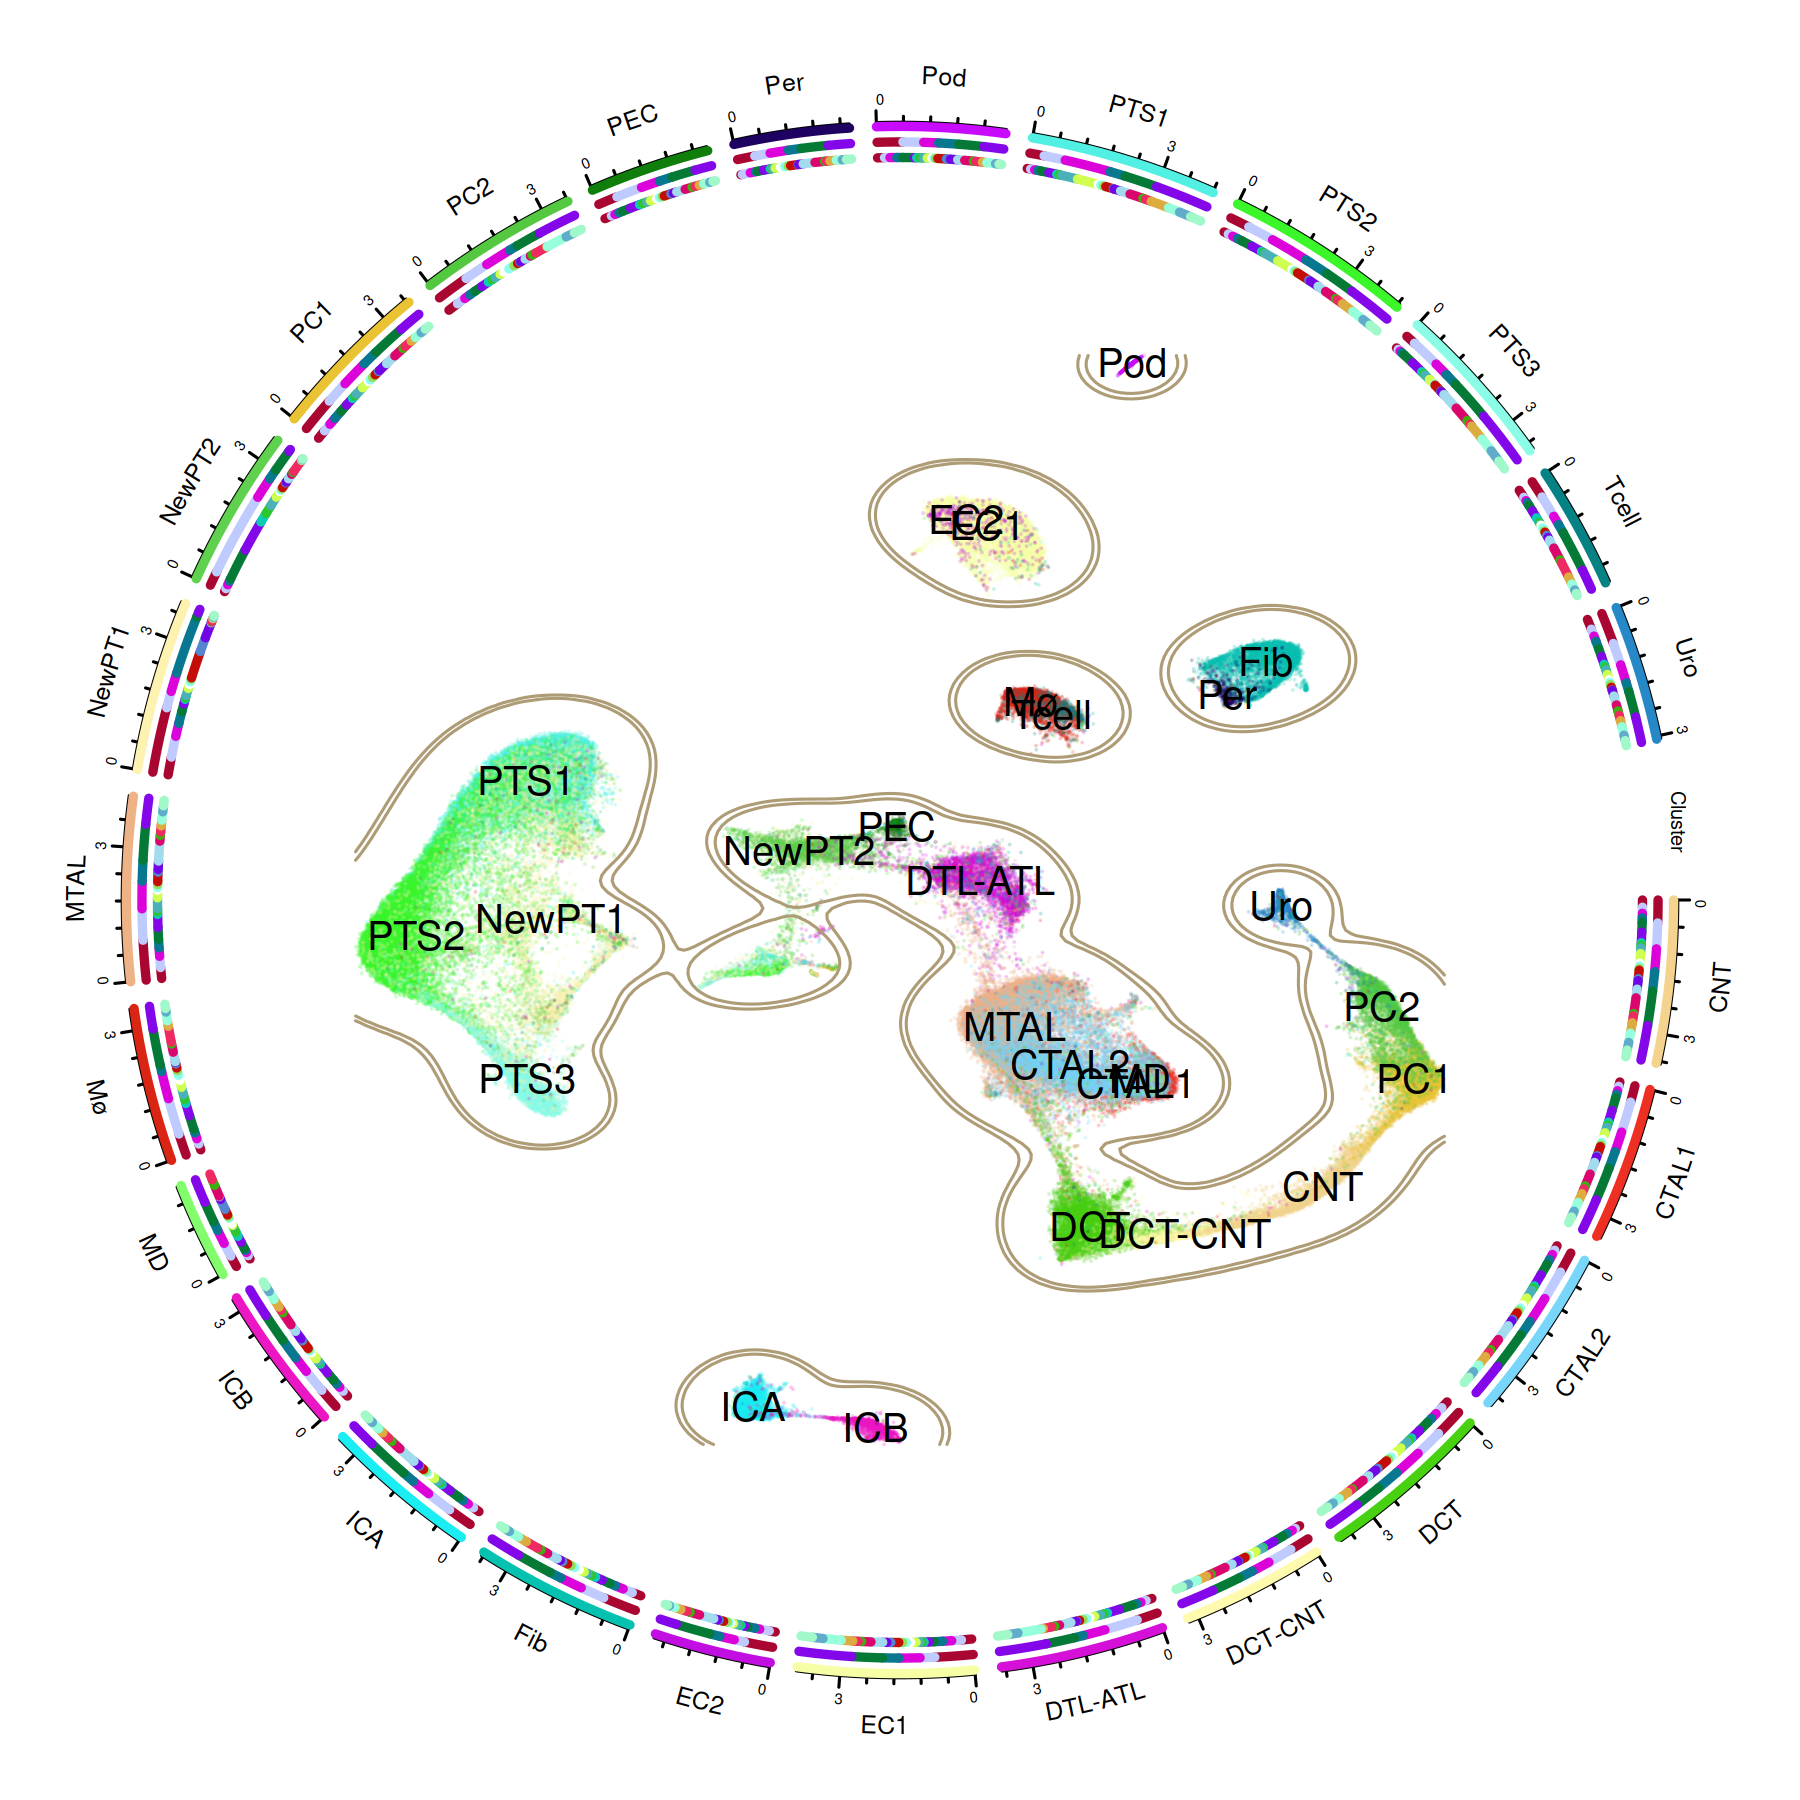
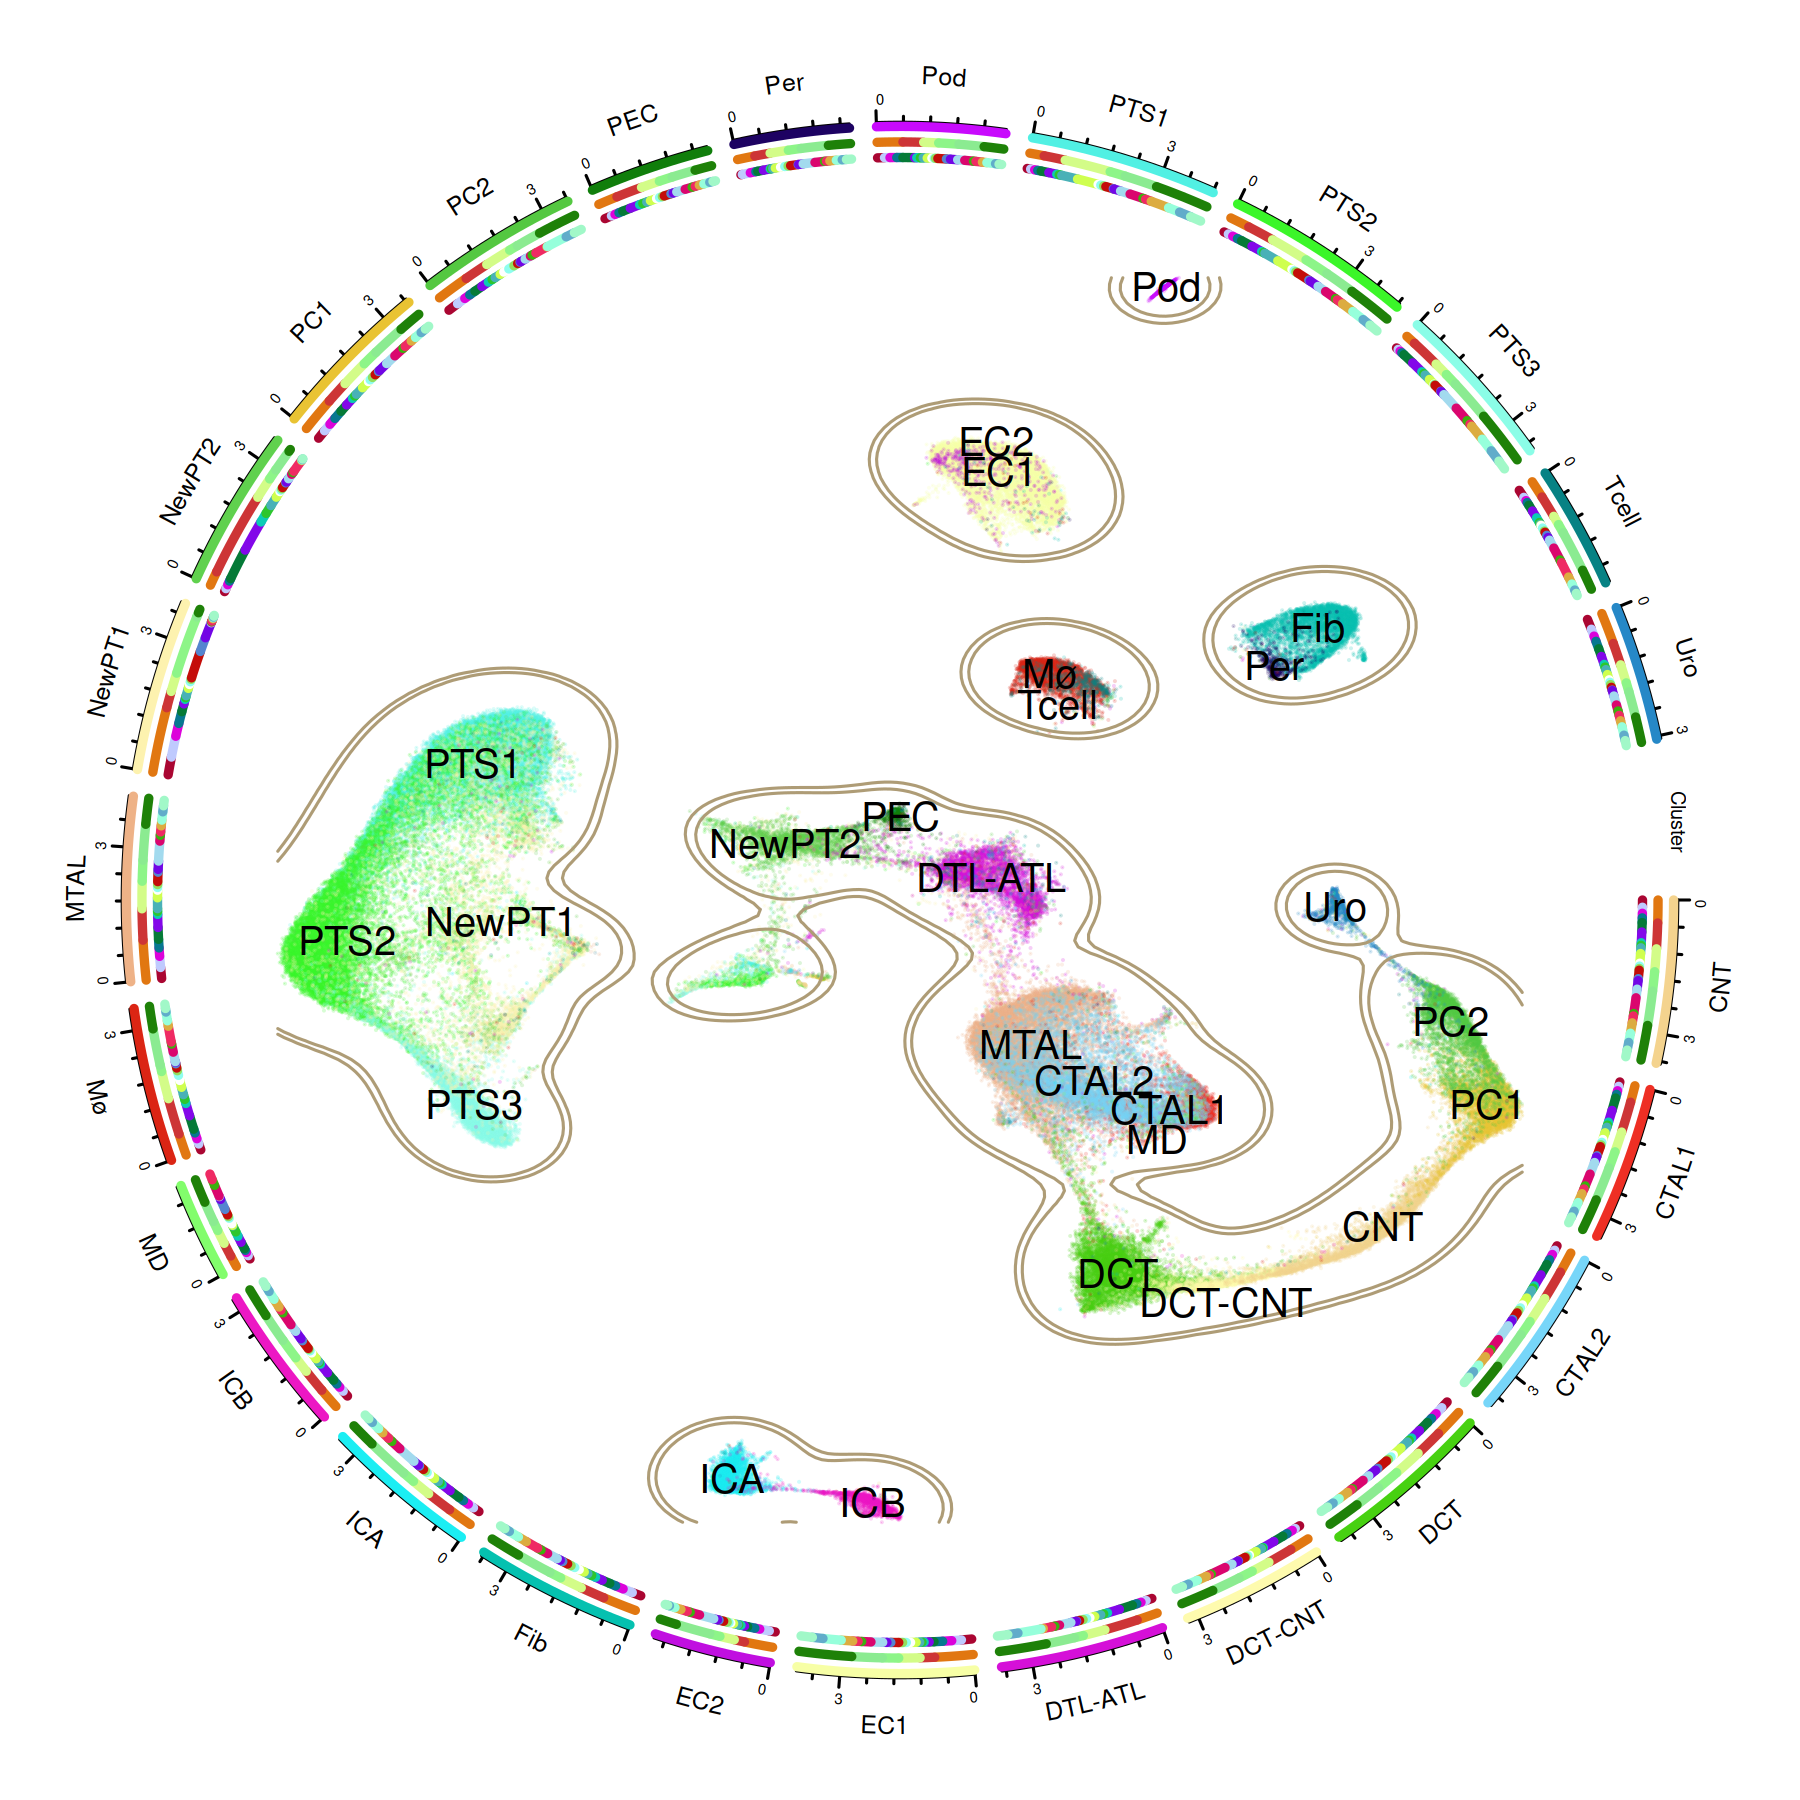
bug fixes

diff --git a/README.md b/README.md
@@ -16,7 +16,7 @@ iri.integrated <- Install.example()
 
 # Please note that this Seurat object is just for demo purpose and 
 # is not exactly the same as we published on PNAS.
-# It take about 2 hours to run in a linux server with 500GB RAM and 32 CPU cores.
+# It takes about 2 hours to run in a linux server with 500GB RAM and 32 CPU cores.
 # You can skip this step and use your own Seurat object instead
 ```
 
@@ -29,12 +29,12 @@ colnames(iri.integrated@meta.data)
 circ_data <- prepare_circlize_data(iri.integrated, scale = 0.8 )
 set.seed(1234)
 cluster_colors<-rand_color(length(levels(iri.integrated)))
-group_colors<-rand_color(length(table(iri.integrated$Group)))
-rep_colors<-group_colors<-rand_color(length(table(iri.integrated$orig.ident)))
+group_colors<-rand_color(length(names(table(iri.integrated$Group))))
+rep_colors<-rand_color(length(names(table(iri.integrated$orig.ident))))
 
 ###plot and save figures
 png(filename =  'circlize_plot.png', width = 6, height = 6,units = 'in', res = 300)
-plot_circlize(circ_data,do.label = T, pt.size = 0.01, col.use = cluster_colors ,bg.color = 'white', kde2d.n = 200)
+plot_circlize(circ_data,do.label = T, pt.size = 0.01, col.use = cluster_colors ,bg.color = 'white', kde2d.n = 200, repel = T)
 add_track(circ_data, group = "Group", colors = group_colors) ## can change it to one of the columns in the meta data of your seurat object
 add_track(circ_data, group = "orig.ident",colors = rep_colors) ## can change it to one of the columns in the meta data of your seurat object
 dev.off()
